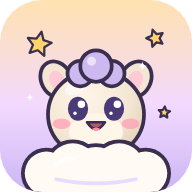
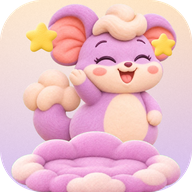
feat: nome Casa da Nubi e ícone novo com a Nubi em feltro

diff --git a/src/ui/title.js b/src/ui/title.js
@@ -1,4 +1,4 @@
-/* Tela inicial (Play). O app abre direto nela: céu animado, logo "Casa do
+/* Tela inicial (Play). O app abre direto nela: céu animado, logo "Casa da
    Nubi" com letras que pulam, o Nubi quicando no ninho de nuvem e um botão
    Play grande que pulsa. O toque no Play é também o gesto que libera o
    áudio (exigência dos navegadores) e, no navegador de celular, pede tela
@@ -18,8 +18,8 @@ export function showTitle({ audio, onStart }) {
     <div class="tCloud c1"></div><div class="tCloud c2"></div><div class="tCloud c3"></div>
     <span class="tw t1">★</span><span class="tw t2">★</span><span class="tw t3">✦</span><span class="tw t4">★</span><span class="tw t5">✦</span>
     <div class="tLeft">
-      <h1 class="logo" aria-label="Casa do Nubi">
-        <span class="l1">${letters("Casa do", "lt")}</span>
+      <h1 class="logo" aria-label="Casa da Nubi">
+        <span class="l1">${letters("Casa da", "lt")}</span>
         <span class="l2">${letters("Nubi", "lt big")}</span>
       </h1>
       <button id="btnPlay" class="toy" aria-label="Jogar">

diff --git a/test/title.test.js b/test/title.test.js
@@ -26,7 +26,7 @@ const URL = 'http://127.0.0.1:8742/index.html';
   await page.reload({ waitUntil: 'networkidle' });
   await page.waitForFunction(() => !!window.__nubi && window.__nubi.room);
   R.titleShown = await page.isVisible('#title #btnPlay');
-  R.logoText = (await page.getAttribute('#title .logo', 'aria-label')) === 'Casa do Nubi';
+  R.logoText = (await page.getAttribute('#title .logo', 'aria-label')) === 'Casa da Nubi';
   R.noRotateBlock = (await page.$('#rotate')) === null;
   await page.waitForTimeout(1600);   // animação de entrada
   await page.screenshot({ path: path.join(OUT, 't1-tela-inicial.png') });

diff --git a/index.html b/index.html
@@ -10,7 +10,7 @@
   <link rel="manifest" href="manifest.webmanifest" />
   <link rel="icon" type="image/png" sizes="192x192" href="assets/icon-192.png" />
   <link rel="apple-touch-icon" href="assets/icon-192.png" />
-  <title>Casa do Nubi</title>
+  <title>Casa da Nubi</title>
   <style>
     @font-face {
       font-family: "Fredoka";

diff --git a/sw.js b/sw.js
@@ -1,6 +1,6 @@
 /* Service worker — joga 100% offline. Precache de todos os módulos e assets.
    Estratégia cache-first: ótimo para um jogo estático que não muda em runtime. */
-const CACHE = "nubi-v34";
+const CACHE = "nubi-v35";
 const ASSETS = [
   "./",
   "./index.html",

diff --git a/scripts/make-icons.py b/scripts/make-icons.py
@@ -1,0 +1,108 @@
+"""Gera os ícones do app (PWA e Android) com a Nubi em feltro.
+
+    python scripts/make-icons.py
+
+Monta: fundo pastel (pêssego para lilás) com fibrinhas de feltro, a nuvem
+de dormir em feltro embaixo, a Nubi acenando sentada nela e duas estrelinhas
+em feltro. Grava:
+- assets/icon-192.png, assets/icon-512.png (cantos arredondados) e
+  assets/icon-maskable-512.png (quadrado cheio, conteúdo na área segura);
+- android-res/mipmap-*/ic_launcher*.png: ícone adaptativo (fundo + frente
+  separados, frente dentro dos 66% centrais) e os ícones antigos (quadrado
+  arredondado e redondo) em cada densidade.
+Precisa de Pillow e numpy.
+"""
+import os
+
+import numpy as np
+from PIL import Image, ImageDraw, ImageFilter
+
+ROOT = os.path.dirname(os.path.dirname(os.path.abspath(__file__)))
+A = lambda *p: os.path.join(ROOT, "assets", *p)
+TOP, BOTTOM = (255, 226, 190), (214, 190, 245)      # pêssego -> lilás
+DENS = {"mdpi": 1, "hdpi": 1.5, "xhdpi": 2, "xxhdpi": 3, "xxxhdpi": 4}
+
+
+def background(n):
+    t = np.linspace(0, 1, n)[:, None, None]
+    g = (np.array(TOP) * (1 - t) + np.array(BOTTOM) * t) * np.ones((n, n, 3))
+    # luz macia no alto à esquerda
+    yy, xx = np.mgrid[0:n, 0:n] / n
+    glow = np.clip(1 - np.hypot(xx - 0.3, yy - 0.25) / 0.75, 0, 1)[..., None]
+    g = g + (255 - g) * glow * 0.35
+    # fibrinhas de feltro
+    rng = np.random.default_rng(7)
+    noise = Image.fromarray((rng.random((n // 2, n // 2)) * 255).astype(np.uint8)).resize((n, n), Image.BILINEAR)
+    g = g + (np.asarray(noise)[..., None] / 255 - 0.5) * 10
+    return Image.fromarray(np.clip(g, 0, 255).astype(np.uint8), "RGB").convert("RGBA")
+
+
+def fit(im, w):
+    return im.resize((round(w), round(w * im.height / im.width)), Image.LANCZOS)
+
+
+def foreground(n, scale=1.0):
+    """Nubi + nuvem + estrelas num quadro transparente n x n (scale = quanto
+    do quadro o conjunto ocupa)."""
+    fg = Image.new("RGBA", (n, n), (0, 0, 0, 0))
+    k = n * scale
+    cloud = fit(Image.open(A("nubi", "nubi_ninho.webp")).convert("RGBA"), k * 0.92)
+    nubi = Image.open(A("nubi", "nubi_acenando.webp")).convert("RGBA")
+    nubi = nubi.crop(nubi.getchannel("A").getbbox())
+    nubi = fit(nubi, k * 0.84)
+    star = Image.open(A("hud", "hud_estrela.webp")).convert("RGBA")
+    cx, top = n / 2, (n - k) / 2
+    cy_cloud = top + k * 0.84
+    # sombra macia da Nubi na nuvem
+    sh = Image.new("L", (n, n), 0)
+    ImageDraw.Draw(sh).ellipse((cx - k * 0.26, cy_cloud - k * 0.10, cx + k * 0.26, cy_cloud + k * 0.02), fill=90)
+    fg.paste((120, 80, 140, 255), (0, 0), sh.filter(ImageFilter.GaussianBlur(k * 0.03)))
+    fg.alpha_composite(nubi, (round(cx - nubi.width / 2 + k * 0.02), round(cy_cloud - nubi.height + k * 0.03)))
+    fg.alpha_composite(cloud, (round(cx - cloud.width / 2), round(cy_cloud - cloud.height * 0.42)))
+    for sx, sy, sw in ((0.12, 0.10, 0.17), (0.80, 0.16, 0.13)):
+        s = fit(star, k * sw)
+        fg.alpha_composite(s, (round(top + k * sx), round(top + k * sy)))
+    return fg
+
+
+def rounded(im, rad):
+    m = Image.new("L", im.size, 0)
+    ImageDraw.Draw(m).rounded_rectangle((0, 0, im.width - 1, im.height - 1), rad, fill=255)
+    out = im.copy()
+    out.putalpha(m)
+    return out
+
+
+def full(n, scale):
+    bg = background(n)
+    bg.alpha_composite(foreground(n, scale))
+    return bg
+
+
+def main():
+    big = full(1024, 0.96)
+    rounded(big, 1024 * 0.22).resize((512, 512), Image.LANCZOS).save(A("icon-512.png"))
+    rounded(big, 1024 * 0.22).resize((192, 192), Image.LANCZOS).save(A("icon-192.png"))
+    full(1024, 0.78).resize((512, 512), Image.LANCZOS).convert("RGB").save(A("icon-maskable-512.png"))
+    # Android: adaptativo 108dp (frente nos 72dp centrais) + legado 48dp
+    fg = foreground(1296, 0.62)
+    bg = background(1296)
+    leg = full(768, 0.96)
+    for d, f in DENS.items():
+        out = os.path.join(ROOT, "android-res", f"mipmap-{d}")
+        os.makedirs(out, exist_ok=True)
+        a = round(108 * f)
+        fg.resize((a, a), Image.LANCZOS).save(os.path.join(out, "ic_launcher_foreground.png"))
+        bg.resize((a, a), Image.LANCZOS).convert("RGB").save(os.path.join(out, "ic_launcher_background.png"))
+        L = round(48 * f)
+        rounded(leg, 768 * 0.2).resize((L, L), Image.LANCZOS).save(os.path.join(out, "ic_launcher.png"))
+        circ = Image.new("L", leg.size, 0)
+        ImageDraw.Draw(circ).ellipse((0, 0, leg.width - 1, leg.height - 1), fill=255)
+        r = leg.copy()
+        r.putalpha(circ)
+        r.resize((L, L), Image.LANCZOS).save(os.path.join(out, "ic_launcher_round.png"))
+    print("ícones gerados")
+
+
+if __name__ == "__main__":
+    main()

diff --git a/scripts/serve.py b/scripts/serve.py
@@ -31,7 +31,7 @@ def main():
     root = sys.argv[2] if len(sys.argv) > 2 else os.path.dirname(os.path.dirname(os.path.abspath(__file__)))
     handler = functools.partial(Handler, directory=root)
     with Server(("127.0.0.1", port), handler) as httpd:
-        print(f"Casa do Nubi em http://127.0.0.1:{port}/", flush=True)
+        print(f"Casa da Nubi em http://127.0.0.1:{port}/", flush=True)
         httpd.serve_forever()
 
 

diff --git a/README.md b/README.md
@@ -1,6 +1,6 @@
-# Casa do Nubi
+# Casa da Nubi
 
-<img src="assets/icon-192.png" width="96" alt="Ícone do Casa do Nubi" />
+<img src="assets/icon-192.png" width="96" alt="Ícone da Casa da Nubi" />
 
 Ícones (PWA e Android) são gerados de um único desenho em `scripts/make-icons.cjs`
 (precisa de Playwright: `NODE_PATH=<node_modules com playwright> node scripts/make-icons.cjs`).
